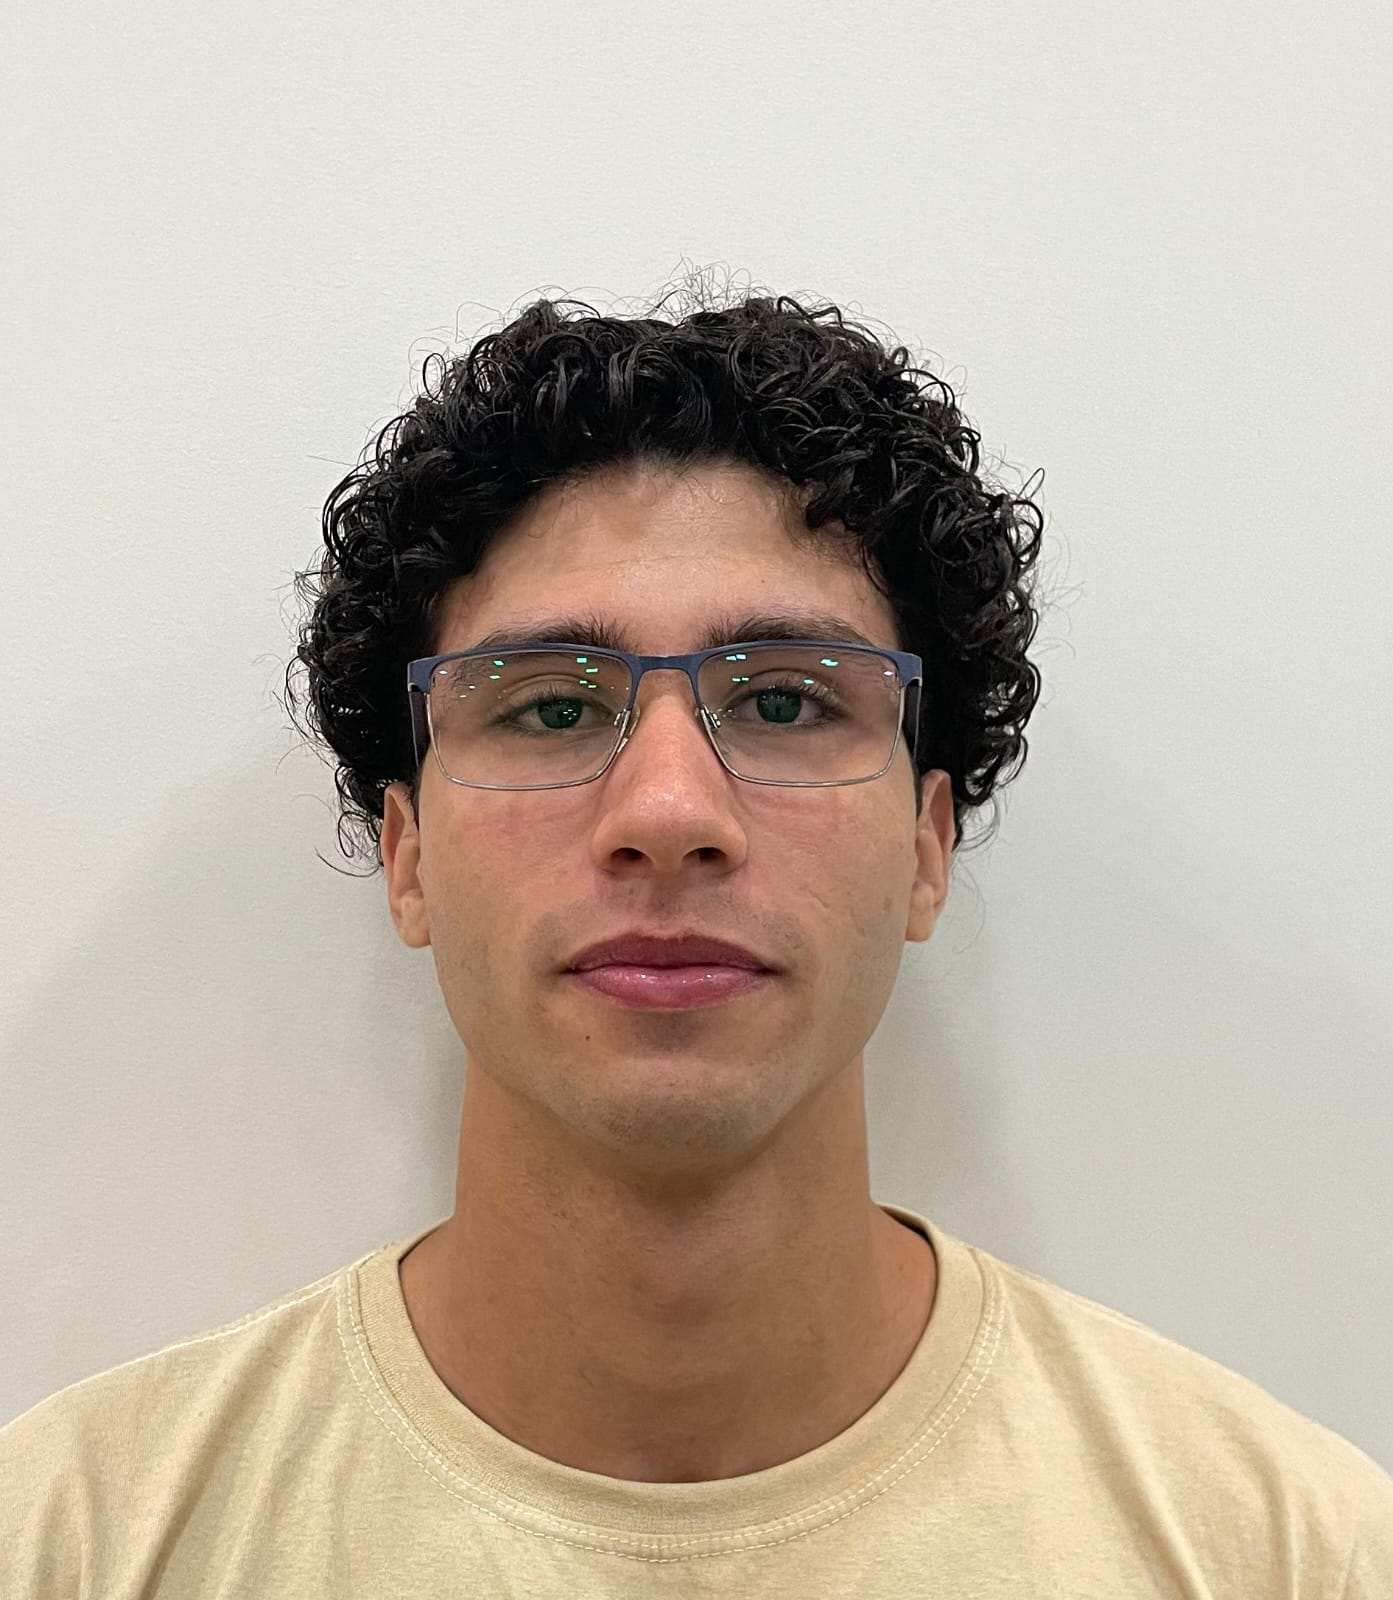
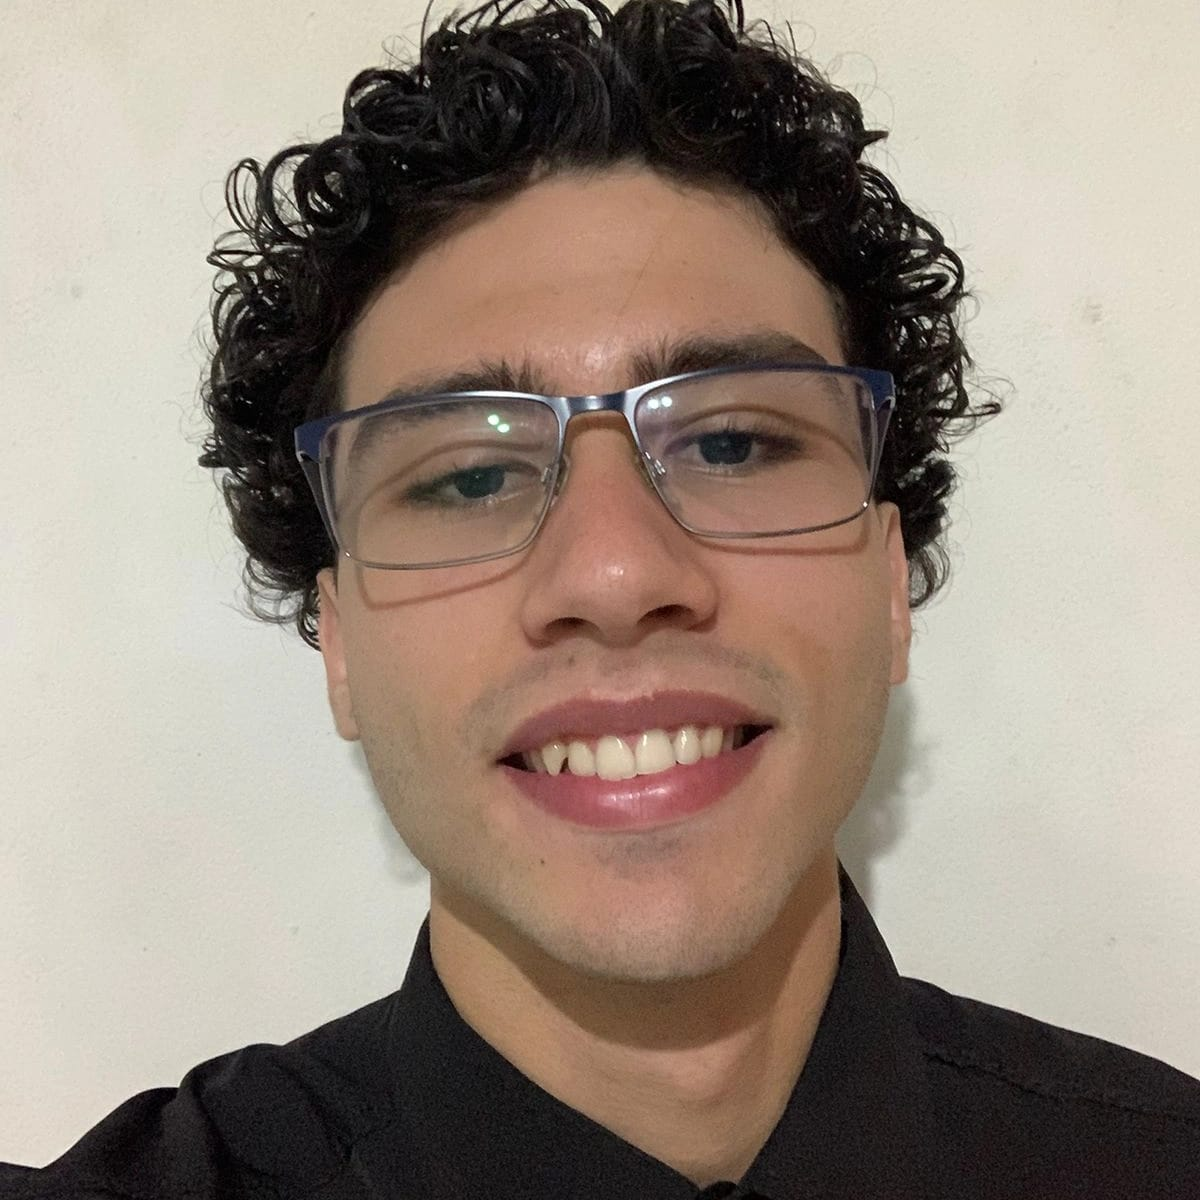
atualizando idade e foto

diff --git a/src/components/Sobre/index.tsx b/src/components/Sobre/index.tsx
@@ -63,7 +63,7 @@ const Sobre = () => {
         <div>
           <S.TitleSobre>Sobre mim</S.TitleSobre>
           <S.Text>
-            Olá! Meu nome é Gustavo Farias, tenho 19 anos e estou no primeiro
+            Olá! Meu nome é Gustavo Farias, tenho 20 anos e estou no primeiro
             ano de Engenharia de Software na UniCesumar. Além disso, estou
             cursando Full Stack Python na EBAC, onde já concluí a parte de
             front-end. Atualmente, busco oportunidades no mercado para praticar
